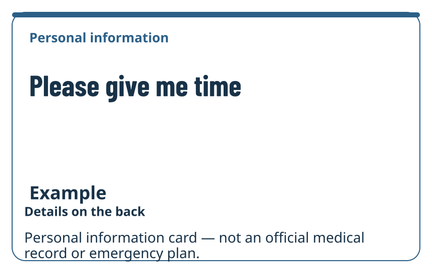
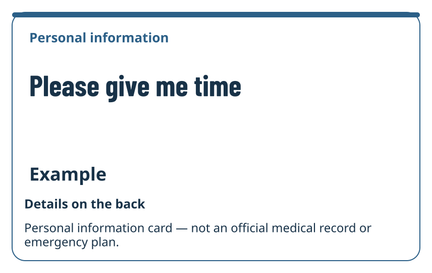
Polish-card-layouts-and-prevent-text-collisions

Changed region(s): [[0.0602, 0.8205, 0.8727, 0.967], [0.0602, 0.6154, 0.331, 0.7912]]

diff --git a/docs/DESIGNED_CARDS.md b/docs/DESIGNED_CARDS.md
@@ -46,10 +46,10 @@ Tests used disposable synthetic fixtures on `http://127.0.0.1:4183`. The user's 
 | Milestone creator | Unsaved selected photo/name disappeared on reload; explicit save restored a photo story. Words survived template change, photo removal and Undo. Actual PNG/PDF downloads checked. Survivor/Warrior remain optional. The explicit plain layout uses the same filtered scene and direct-word text output. |
 | Legacy compatibility | A saved legacy Ink heading card was restored, the design gallery opened and Back to my words used. Its original title and selected Ink appearance stayed unchanged. Selecting the new plain layout is an explicit appearance change. |
 | Deletion and recovery | Cancel deletion kept the preview. Confirmed milestone deletion left the practical card saved. Clear-all removed both cards and retained blank state after reload. Adapter tests cover interrupted writes, rollback, wrong-owner photos, resource-clear failure and retry. |
-| Reflow/display | 390px, 320px, 1440px desktop and 844 × 320 landscape inspected. Doubled app text, spacing, four themes and reduced-motion preference checked. No horizontal document overflow in observed states. At doubled text in short landscape the active reading area remains scrollable (108px height). Readable words precede artwork with large text/high contrast. A black-on-dark unstyled-text fault was reproduced and fixed in the shared text wrapper; [actual rendered foreground/background pairs](designed-cards-proof/rendered-text-themes.json) were verified in all four themes. |
+| Reflow/display | 390px, 320px, 1440px desktop and 844 × 320 landscape inspected. Doubled app text, spacing, four themes and reduced-motion preference checked. No horizontal document overflow in observed states. At doubled text in short landscape the active reading area remains scrollable (108px height). Readable words precede artwork with large text/high contrast. A black-on-dark unstyled-text fault was reproduced and fixed in the shared text wrapper; [actual rendered foreground/background pairs](designed-cards-proof/rendered-text-themes.json) were verified in all four themes. Wallet fronts now use a reserved two-line headline and separate identity, back-details and safety bands; a structural test catches text collisions. |
 | Keyboard | Enter operated buttons, radio navigation/crop controls tested, and Menu Escape restored focus with a visible outline. This is targeted keyboard coverage, not a full assistive-technology assessment. |
 | Privacy trace | [Untruncated synthetic trace](designed-cards-proof/privacy-trace.json): no name/contact/medicine/EXIF/filename markers in captured requests, URL or logs. Blob URLs were local rendering references; the only HTTP request in that warm-cache trace was a same-origin code chunk. An earlier cold-cache trace loaded only public same-origin fonts/art/code. |
-| Build checks | 100 unit tests, source/content/review/native-config validators, TypeScript, design validation, static web export and 35 exported route/asset checks passed after retiring the raster asset. Existing clinical and market release blocks remain in place. |
+| Build checks | 101 unit tests, source/content/review/native-config validators, TypeScript, design validation, static web export and 35 exported route/asset checks passed after retiring the raster asset. Existing clinical and market release blocks remain in place. |
 
 ## Named limitations
 
